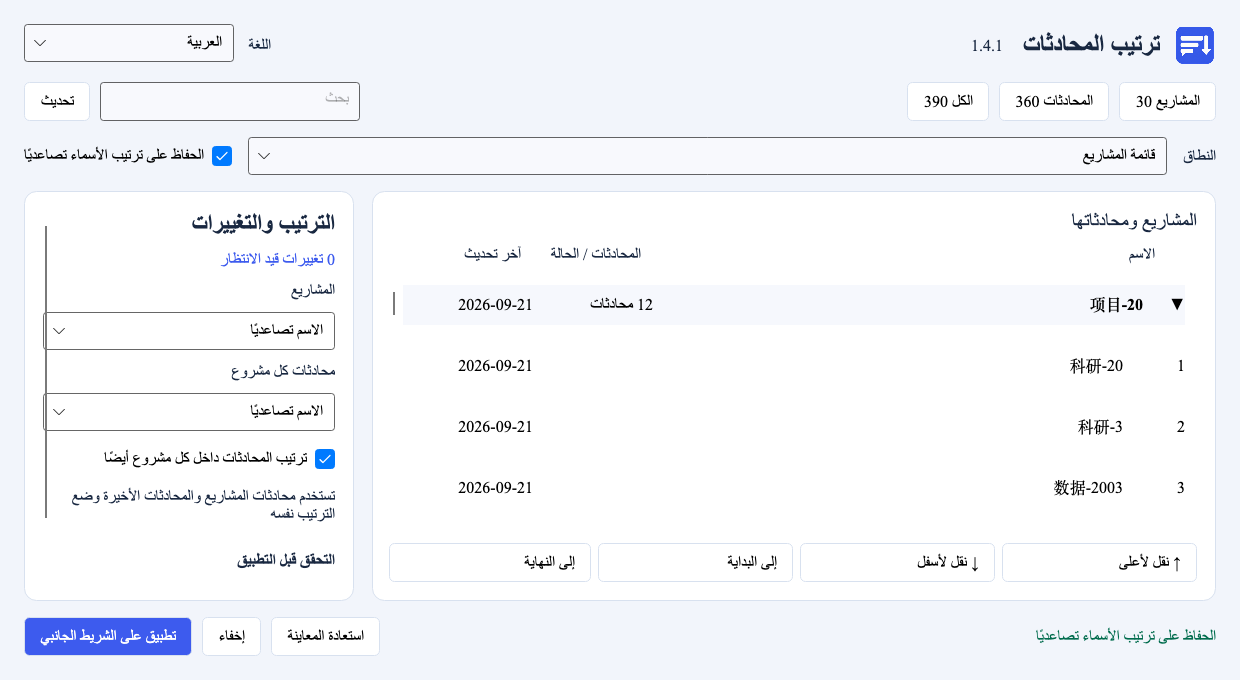
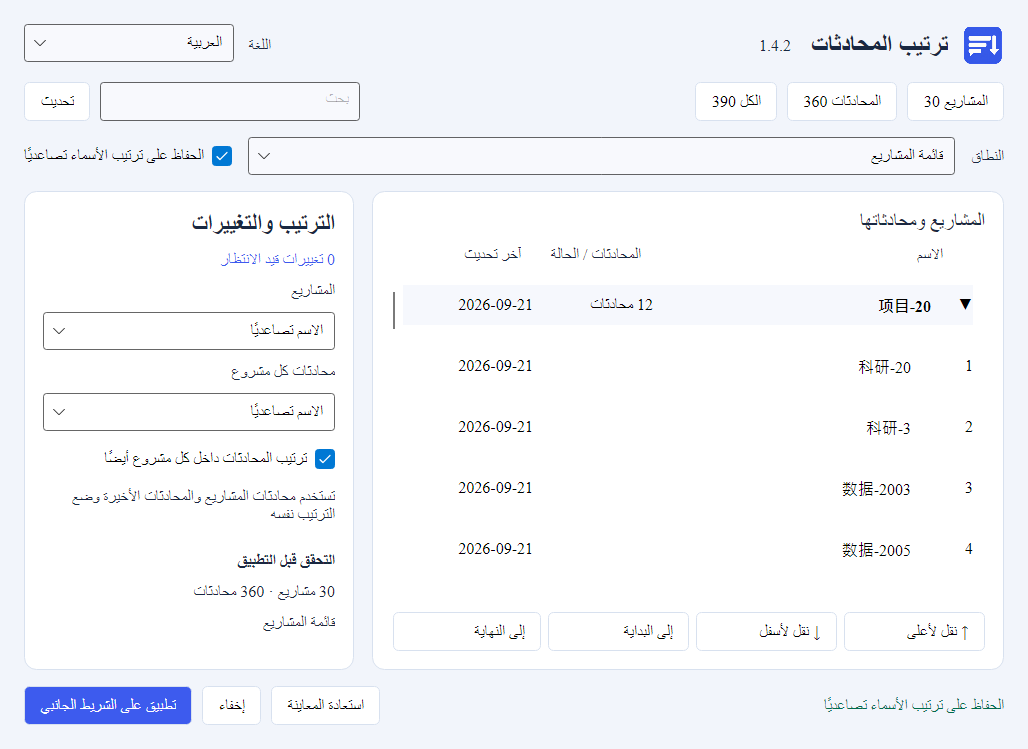
Refresh the 1.4.2 release package records and verified product images [skip ci]

diff --git a/README.md b/README.md
@@ -68,7 +68,7 @@ The Windows official-client lifecycle run used a signed-out cloud profile. Authe
 
 Native project ordering covers unpinned projects in the default Projects section. Chat ordering covers supported Codex project chats and chats in pinned or custom sections. ChatGPT project-chat ordering, independent alphabetical Recents ordering, and pinned project placement require additional client support.
 
-Cloud execution resumed after the repository became public. The last locally installed Windows companion remains `036f029`, version `1.4.1`. Local functional testing remains outside the owner's authorized test scope.
+Cloud execution resumed after the repository became public. The authorized local installation has been upgraded to the cloud-accepted 1.4.2 preview. Functional testing continues on disposable cloud hosts.
 
 The 1.4.2 candidate detects historical name, timestamp, project, agent-path, and attached-parent fields. Its expanded 26-check suite passed on all three cloud platforms. Grouped project and chat submissions preflight required operation names before the first write. Client-build support is tracked in the compatibility record. The future-version design specifies consumed-contract matching, independent adapters, signed adapter updates, interrupted-batch recovery, and per-build cloud acceptance. These additional mechanisms have their implementation status recorded in the design. [Compatibility record](docs/04-compatibility.md) · [Future compatibility design](docs/05-future-compatibility.md)
 

diff --git a/agensi/skill/codex-sidebar-sorter-windows/references/compatibility.md b/agensi/skill/codex-sidebar-sorter-windows/references/compatibility.md
@@ -12,7 +12,9 @@ Windows installed acceptance used the production executable with fictional nativ
 
 The public Windows preview download returned HTTP 200 without authentication and the expected 44,327,746-byte content length. [Windows preview release](https://github.com/syj3426962511-glitch/codex-sidebar-sorter/releases/tag/v1.4.2-preview)
 
-## Locally installed Windows package
+The authorized local upgrade to `1.4.2+43ee877` completed with installer exit code 0 and retained companion settings. The existing Codex main window process remained alive. Local checks covered installed files and process state. Functional tests run in cloud hosts.
+
+## Earlier Windows 1.4.1 package
 
 The accepted installer is `CodexSidebarSorter-1.4.1-Windows-Setup.exe`, built from `036f029`, with a size of 44,062,557 bytes.
 
@@ -51,7 +53,7 @@ Linux returned its tool catalog. Signed-out list calls timed out, and signed-in 
 - macOS and Linux consumer installers with installation and upgrade acceptance.
 - Public installer delivery and a verified Agensi buyer path.
 
-Cloud execution resumed after source publication. The current candidate results appear above. The locally installed companion remains 1.4.1, and local functional tests remain outside the owner's test scope.
+Cloud execution resumed after source publication. The current candidate results appear above. The locally installed companion is now 1.4.2, and functional tests continue on disposable cloud hosts.
 
 ## Marketplace status
 

diff --git a/docs/02-validation.md b/docs/02-validation.md
@@ -12,7 +12,9 @@ Windows installed acceptance used the production executable with fictional nativ
 
 The public Windows preview download returned HTTP 200 without authentication and the expected 44,327,746-byte content length. [Windows preview release](https://github.com/syj3426962511-glitch/codex-sidebar-sorter/releases/tag/v1.4.2-preview)
 
-## Locally installed Windows package
+The authorized local upgrade to `1.4.2+43ee877` completed with installer exit code 0 and retained companion settings. The existing Codex main window process remained alive. Local checks covered installed files and process state. Functional tests run in cloud hosts.
+
+## Earlier Windows 1.4.1 package
 
 The accepted installer is `CodexSidebarSorter-1.4.1-Windows-Setup.exe`, built from `036f029`, with a size of 44,062,557 bytes.
 
@@ -51,7 +53,7 @@ Linux returned its tool catalog. Signed-out list calls timed out, and signed-in 
 - macOS and Linux consumer installers with installation and upgrade acceptance.
 - Public installer delivery and a verified Agensi buyer path.
 
-Cloud execution resumed after source publication. The current candidate results appear above. The locally installed companion remains 1.4.1, and local functional tests remain outside the owner's test scope.
+Cloud execution resumed after source publication. The current candidate results appear above. The locally installed companion is now 1.4.2, and functional tests continue on disposable cloud hosts.
 
 ## Marketplace status
 

diff --git a/agensi/README.md b/agensi/README.md
@@ -18,7 +18,7 @@ Use the existing application logo and the English, Japanese, and Arabic desktop 
 
 Agensi delivers the skill through MCP. The Windows companion installer is supplied through a verified external download. The paid listing is scoped to the agent workflow for the Windows companion.
 
-The source repository and Windows 1.4.2 preview installer are public. The preview passed 26 core checks on each cloud platform, all three desktop jobs, and Windows installed-upgrade acceptance. Its unauthenticated download returned HTTP 200 and the expected 44,327,746-byte content length. The locally installed Windows companion remains version 1.4.1 from `036f029`.
+The source repository and Windows 1.4.2 preview installer are public. The preview passed 26 core checks on each cloud platform, all three desktop jobs, and Windows installed-upgrade acceptance. Its unauthenticated download returned HTTP 200 and the expected 44,327,746-byte content length. The authorized local installation has been upgraded to the same Windows preview.
 
 The paid purchase delivers the agent skill through Agensi. The companion installer is supplied at no additional charge. The product page describes the Windows preview's current evidence and pending authenticated real-sidebar and client-version-replacement acceptance. [Windows preview](https://github.com/syj3426962511-glitch/codex-sidebar-sorter/releases/tag/v1.4.2-preview)
 

diff --git a/docs/04-compatibility.md b/docs/04-compatibility.md
@@ -7,7 +7,7 @@ The owner requires client-version compatibility and cloud-only functional accept
 | Item | Current evidence |
 | --- | --- |
 | Current public preview installer | Windows 1.4.2 from `43ee877`, cloud installed-upgrade acceptance passed |
-| Locally installed companion | Windows 1.4.1 from `036f029` |
+| Locally installed companion | Windows 1.4.2 from `43ee877`, authorized upgrade completed |
 | Official Windows client build | `26.1111.2228.0` lifecycle run |
 | Authenticated Windows sidebar ordering | Cloud acceptance pending |
 | Original client version replacement | Cloud acceptance pending |
